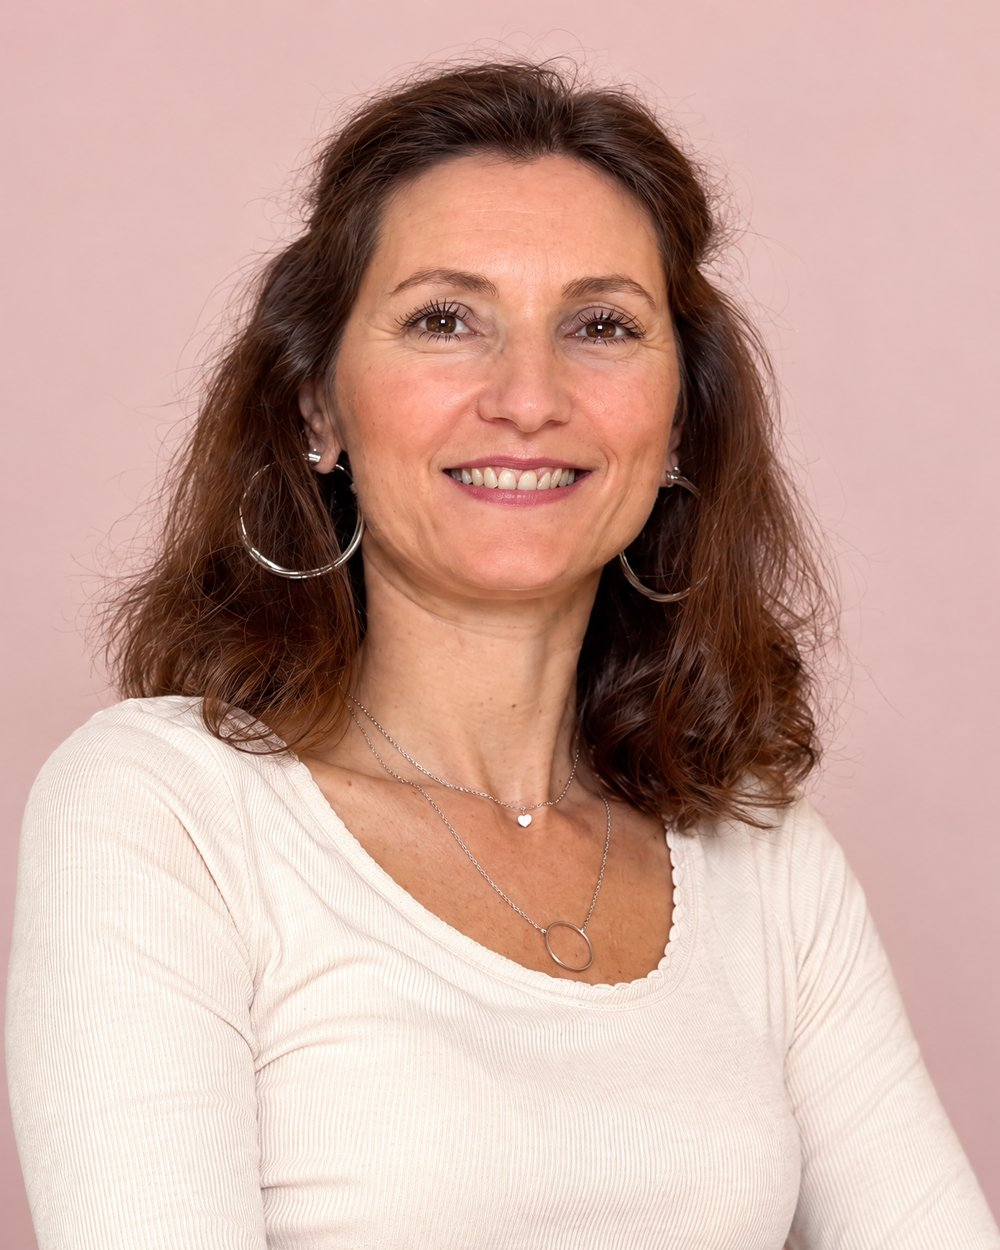
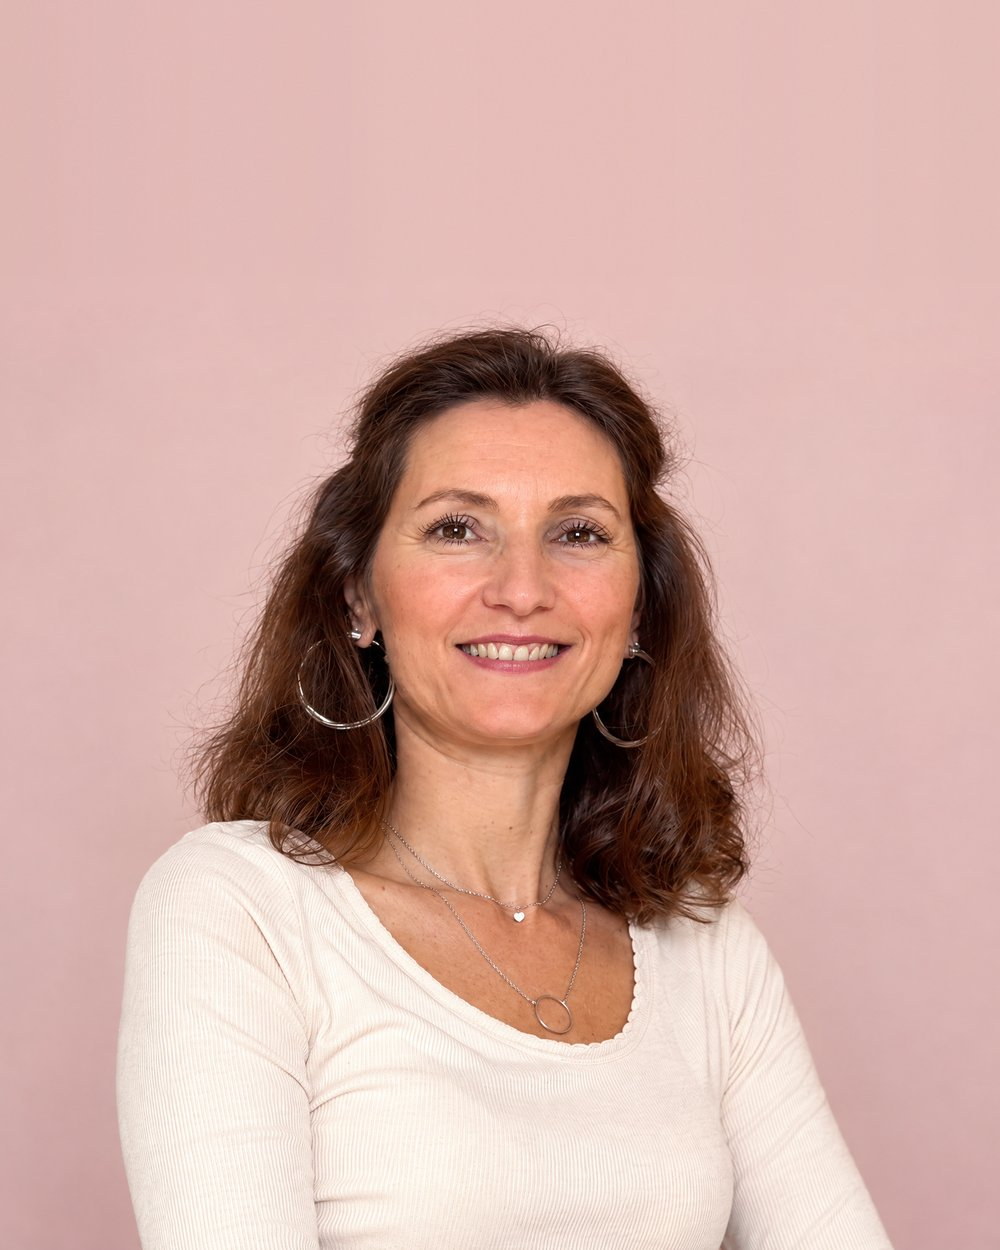
Portraits dézoomés, vague en haut à gauche derrière le portrait, bloc session MBCT pleine largeur
- Portraits (accueil et Qui suis-je) regénérés avec le fond de studio prolongé vers le haut : plus d'air autour du visage dans le cadre en arche.
- Bandeau bleu en vague : désormais en absolu dans l'angle supérieur gauche de la figure du hero, derrière la photo, dont il déborde à gauche et dans le creux de l'arche.
- Page MBCT : bloc « Prochaine session » sorti du conteneur étroit — carte calendrier (mois + pastilles de dates, journée intensive distinguée) et colonne Tarifs / Inscription en cartes teintées.

diff --git a/site/styles.css b/site/styles.css
@@ -345,18 +345,20 @@ figcaption { font-size: 0.85rem; color: var(--ink-soft); margin-top: 12px; }
   border-radius: var(--radius-arch);
 }
 
-/* Bandeau bleu en vague dans l'angle inférieur droit du hero :
-   il passe légèrement sous le portrait, qui reste au-dessus */
+/* Bandeau bleu en vague : posé en absolu dans l'angle supérieur gauche
+   du portrait du hero, derrière la photo, dont il déborde à gauche et
+   dans le creux de l'arche */
+.portrait { position: relative; }
+.portrait .photo { position: relative; z-index: 1; }
 .hero-band {
   position: absolute;
-  right: 0;
-  bottom: 0;
-  width: min(50vw, 720px);
-  height: 230px;
+  top: -48px;
+  left: -48px;
+  width: 78%;
+  height: 52%;
   color: var(--blue-deep);
   pointer-events: none;
 }
-.hero .hero-grid { position: relative; z-index: 1; }
 
 /* ---- Placeholder photo ---- */
 .ph {
@@ -617,6 +619,56 @@ figcaption { font-size: 0.85rem; color: var(--ink-soft); margin-top: 12px; }
   border-radius: var(--radius);
 }
 
+/* ---- Prochaine session MBCT : bloc pleine largeur, calendrier lisible ---- */
+.session-block { margin-top: 48px; }
+.session-grid {
+  display: grid;
+  grid-template-columns: minmax(0, 1.5fr) minmax(0, 1fr);
+  gap: 18px;
+  align-items: stretch;
+}
+.session-side { display: grid; gap: 18px; grid-auto-rows: 1fr; }
+.session-card { padding: 34px 32px; }
+.session-card h3 { font-size: 1.4rem; margin-bottom: 0.35em; }
+.session-lead { color: var(--ink-soft); margin-bottom: 1.4em; }
+.schedule { margin: 0 0 1.4em; padding: 0; }
+.schedule > div {
+  display: grid;
+  grid-template-columns: 170px 1fr;
+  align-items: center;
+  gap: 8px 16px;
+  padding-block: 10px;
+  border-top: 1px dashed var(--line);
+}
+.schedule > div:last-child { border-bottom: 1px dashed var(--line); }
+.schedule dt { font-weight: 600; color: var(--blue-deep); }
+.schedule dd {
+  margin: 0;
+  display: flex;
+  flex-wrap: wrap;
+  align-items: center;
+  gap: 8px;
+  color: var(--ink-soft);
+  font-size: 0.95rem;
+}
+.day {
+  display: inline-flex;
+  align-items: center;
+  justify-content: center;
+  min-width: 38px;
+  height: 38px;
+  padding-inline: 8px;
+  border-radius: 999px;
+  background: var(--blue-tint);
+  color: var(--blue-deep);
+  font-weight: 700;
+  font-size: 0.95rem;
+}
+.day--special { background: var(--sand); }
+.session-place { font-size: 0.95rem; color: var(--ink-soft); margin: 0; }
+.session-side .info-card p { margin-bottom: 0.6em; }
+.session-side .info-card p:last-child { margin-bottom: 0; }
+
 .pricing { list-style: none; padding: 0; margin: 0; }
 .pricing li {
   display: flex;
@@ -716,6 +768,7 @@ figcaption { font-size: 0.85rem; color: var(--ink-soft); margin-top: 12px; }
 @media (max-width: 600px) {
   .legal-id { padding-inline: 20px; }
   .legal-id > div { grid-template-columns: 1fr; gap: 2px; }
+  .schedule > div { grid-template-columns: 1fr; gap: 6px; }
 }
 
 /* ---- Note "à valider" (interne, retirer en prod) ---- */
@@ -788,8 +841,7 @@ figcaption { font-size: 0.85rem; color: var(--ink-soft); margin-top: 12px; }
   .hero-grid { grid-template-columns: 1fr; gap: 36px; }
   .hero { padding-block: 48px 56px; }
   .hero .ph-portrait, .portrait { max-width: 420px; }
-  /* Sur mobile, le bandeau devient un socle pleine largeur sous le portrait */
-  .hero-band { width: 100vw; height: 120px; }
+  .hero-band { top: -24px; left: -16px; }
 
   /* Typographie allégée sur mobile : titres plus petits, jamais tronqués */
   h1 { font-size: clamp(1.5rem, 6.8vw, 2.1rem); }
@@ -827,6 +879,9 @@ figcaption { font-size: 0.85rem; color: var(--ink-soft); margin-top: 12px; }
   .has-sub > a::after { content: ""; }
 
   .section { padding-block: 56px; }
+  .session-grid { grid-template-columns: 1fr; }
+  .session-side { grid-auto-rows: auto; }
+  .session-card { padding: 28px 24px; }
   .section-deep { padding-block: calc(56px + var(--wave-h)); }
   .page-hero { padding-block: 52px calc(44px + var(--wave-h)); }
   .cta-band { padding: 44px 28px; text-align: center; }

diff --git a/site/programme-mbct-pleine-conscience.html b/site/programme-mbct-pleine-conscience.html
@@ -90,33 +90,41 @@
         <li>1 journée de pratique intensive</li>
         <li>Des exercices guidés + supports audios pour la pratique à domicile</li>
       </ul>
+    </div>
 
-      <div class="info-grid">
-        <div class="info-card">
+    <!-- Prochaine session : bloc pleine largeur -->
+    <div class="container session-block">
+      <div class="session-grid">
+        <div class="info-card session-card">
           <h3>Prochaine session</h3>
-          <p><strong>Lieu :</strong> Maison de la santé de Pellouailles-les-Vignes<br>4 rue de la vieille poste<br>49112 Verrières-en-Anjou</p>
-          <p><strong>Dates :</strong> 8 séances le vendredi, de 18h à 20h</p>
-          <ul class="ring-list">
-            <li>8, 15, 22 et 29 janvier 2027</li>
-            <li>5, 12 et 19 février 2027</li>
-            <li>12 mars 2027</li>
-          </ul>
-          <p><strong>Journée de pratique intensive :</strong> dimanche 14 février 2027</p>
+          <p class="session-lead">De janvier à mars 2027 : 8 séances le vendredi soir, de 18h à 20h, et une journée de pratique intensive un dimanche.</p>
+          <dl class="schedule">
+            <div><dt>Janvier</dt><dd><span class="day">8</span><span class="day">15</span><span class="day">22</span><span class="day">29</span></dd></div>
+            <div><dt>Février</dt><dd><span class="day">5</span><span class="day">12</span><span class="day">19</span></dd></div>
+            <div><dt>Mars</dt><dd><span class="day">12</span></dd></div>
+            <div><dt>Journée intensive</dt><dd><span class="day day--special">14</span> dimanche 14 février</dd></div>
+          </dl>
+          <p class="session-place"><strong>Lieu :</strong> Maison de la santé de Pellouailles-les-Vignes, 4 rue de la vieille poste, 49112 Verrières-en-Anjou.</p>
         </div>
-        <div class="info-card">
-          <h3>Tarifs</h3>
-          <ul class="pricing">
-            <li><span>Cycle complet</span><span class="price">350 €</span></li>
-            <li><span>Étudiants (moins de 26 ans)</span><span class="price">300 €</span></li>
-          </ul>
-        </div>
-        <div class="info-card">
-          <h3>Inscription</h3>
-          <p>N'hésitez pas à me contacter :</p>
-          <p><a href="tel:+33681421192">06 81 42 11 92</a><br><a href="mailto:raphaelle.beaufils@yahoo.fr">raphaelle.beaufils@yahoo.fr</a></p>
+        <div class="session-side">
+          <div class="info-card info-card--khaki">
+            <h3>Tarifs</h3>
+            <ul class="pricing">
+              <li><span>Cycle complet</span><span class="price">350 €</span></li>
+              <li><span>Étudiants (moins de 26 ans)</span><span class="price">300 €</span></li>
+            </ul>
+          </div>
+          <div class="info-card info-card--deep">
+            <h3>Inscription</h3>
+            <p>Un entretien individuel préalable précède le cycle. N'hésitez pas à me contacter :</p>
+            <p><a class="tel-big" href="tel:+33681421192">06 81 42 11 92</a></p>
+            <p><a href="mailto:raphaelle.beaufils@yahoo.fr">raphaelle.beaufils@yahoo.fr</a></p>
+          </div>
         </div>
       </div>
+    </div>
 
+    <div class="container narrow">
       <h2 style="margin-top:56px;">Questions fréquentes</h2>
       <p class="todo">Réponses à valider avec Raphaëlle avant mise en ligne — rédigées à titre de proposition.</p>
       <div class="faq">

diff --git a/site/index.html b/site/index.html
@@ -63,9 +63,6 @@
       <circle cx="280" cy="280" r="210" stroke="currentColor" stroke-width="1"/>
       <circle cx="280" cy="280" r="276" stroke="currentColor" stroke-width="0.8"/>
     </svg>
-    <svg class="hero-band" viewBox="0 0 720 230" preserveAspectRatio="none" aria-hidden="true">
-      <path d="M0,230 C40,228 70,120 170,104 C280,86 380,128 500,110 C600,96 660,72 720,78 L720,230 Z" fill="currentColor"/>
-    </svg>
     <div class="container hero-grid">
       <div>
         <h1>Raphaëlle Beaufils, psychologue&nbsp;clinicienne à Verrières&#8209;en&#8209;Anjou</h1>
@@ -81,6 +78,9 @@
         </div>
       </div>
       <figure class="portrait">
+        <svg class="hero-band" viewBox="0 0 400 260" preserveAspectRatio="none" aria-hidden="true">
+          <path d="M0,44 C40,16 100,8 170,26 C240,44 300,74 400,118 L400,260 L130,260 C80,260 30,246 0,210 Z" fill="currentColor"/>
+        </svg>
         <img class="photo photo-arch" src="img/portrait-raphaelle.jpg" alt="Raphaëlle Beaufils, psychologue clinicienne" width="1000" height="1250">
       </figure>
     </div>

diff --git a/site/README.md b/site/README.md
@@ -18,8 +18,9 @@ Site statique (HTML/CSS/JS vanilla, aucune dépendance). Pour le voir : ouvrir `
 - **Typo** (locale, dossier `typo/`, chargée en `@font-face` — aucune dépendance Google Fonts) : **Commissioner uniquement**, plus aucune police cursive (les fichiers Gwendolyn restent dans `typo/` mais ne sont plus chargés). Titres en graisses légères, mots accentués via `<em>` en bold 700 + letter-spacing -2 %, jamais de mélange de polices dans un titre. Nom du header en Commissioner 600, sobre. Signatures de citations, titres des cartes infos et du footer en petites capitales espacées.
 - **Sur-titres** : supprimés partout (demande cliente), sauf le label « Programme de groupe » sur la page MBCT (`.eyebrow`, petites capitales Commissioner).
 - **Illustrations** : 4 dessins au trait (fond transparent) dans `img/illus-*.png` — cartes de l'accueil, badges du hero, en-têtes des 4 pages accompagnements (`.page-hero-illus`, masquée < 1060px) et **bandeau CTA de chaque page avec l'illustration du service concerné** (Contact et bandeau « Prendre rendez-vous » de l'accueil : accompagnement individuel). Originaux dans `assets/`.
-- **Signature** : sections en aplat bleu profond bordées de vagues organiques (SVG en `--wave`), images et portraits en arche (`.photo-arch`), cartes d'accompagnements en teintes variées, motif d'anneaux pointillés, et **bandeau bleu en vague dans l'angle inférieur droit du hero** (`.hero-band`, SVG inline) qui passe légèrement sous le portrait.
-- **Photos** : portraits de Raphaëlle (`img/portrait-raphaelle.jpg` fond rose sur l'accueil, `img/portrait-raphaelle-bleu.jpg` fond bleu sur Qui suis-je, recadrés en 4:5, 1000×1250) et photos du cabinet en haute définition (salon, espace d'accueil, tableau du pont ; 1600 px de large). Optimisées en JPEG avec Pillow ; les originaux (5 Mo chacun) sont hors dépôt dans `photos-originales/` à la racine (gitignoré).
+- **Signature** : sections en aplat bleu profond bordées de vagues organiques (SVG en `--wave`), images et portraits en arche (`.photo-arch`), cartes d'accompagnements en teintes variées, motif d'anneaux pointillés, et **bandeau bleu en vague derrière le portrait du hero** (`.hero-band`, SVG inline en absolu dans l'angle supérieur gauche de `figure.portrait`, sous la photo qui garde le z-index) : il déborde à gauche et dans le creux de l'arche, son bord supérieur descend vers la droite pour rester caché derrière la photo.
+- **Photos** : portraits de Raphaëlle (`img/portrait-raphaelle.jpg` fond rose sur l'accueil, `img/portrait-raphaelle-bleu.jpg` fond bleu sur Qui suis-je, recadrés en 4:5, 1000×1250, avec le fond de studio prolongé de 440 px vers le haut au moment du recadrage pour laisser de l'air autour du visage) et photos du cabinet en haute définition (salon, espace d'accueil, tableau du pont ; 1600 px de large). Optimisées en JPEG avec Pillow ; les originaux (5 Mo chacun) sont hors dépôt dans `photos-originales/` à la racine (gitignoré).
+- **Bloc « Prochaine session » (page MBCT)** : sort du conteneur étroit pour occuper toute la largeur (`.session-block` / `.session-grid`) — grande carte calendrier (mois + pastilles `.day` des dates, journée intensive en pastille sable) et, à droite, Tarifs (kaki) et Inscription (bleu profond, téléphone en grand).
 - **Navigation** : plus de bouton « Prendre rendez-vous » dans la barre du haut (doublon avec Contact, pas de prise de RDV en ligne) ; les appels à l'action restent dans le hero et les bandeaux CTA.
 - **Sous-menu « Pourquoi consulter ? »** : pont invisible (`.sub::before`) sur l'écart + délai de fermeture de 250 ms dans `nav.js`, pour pouvoir atteindre les sous-items à la souris.
 
